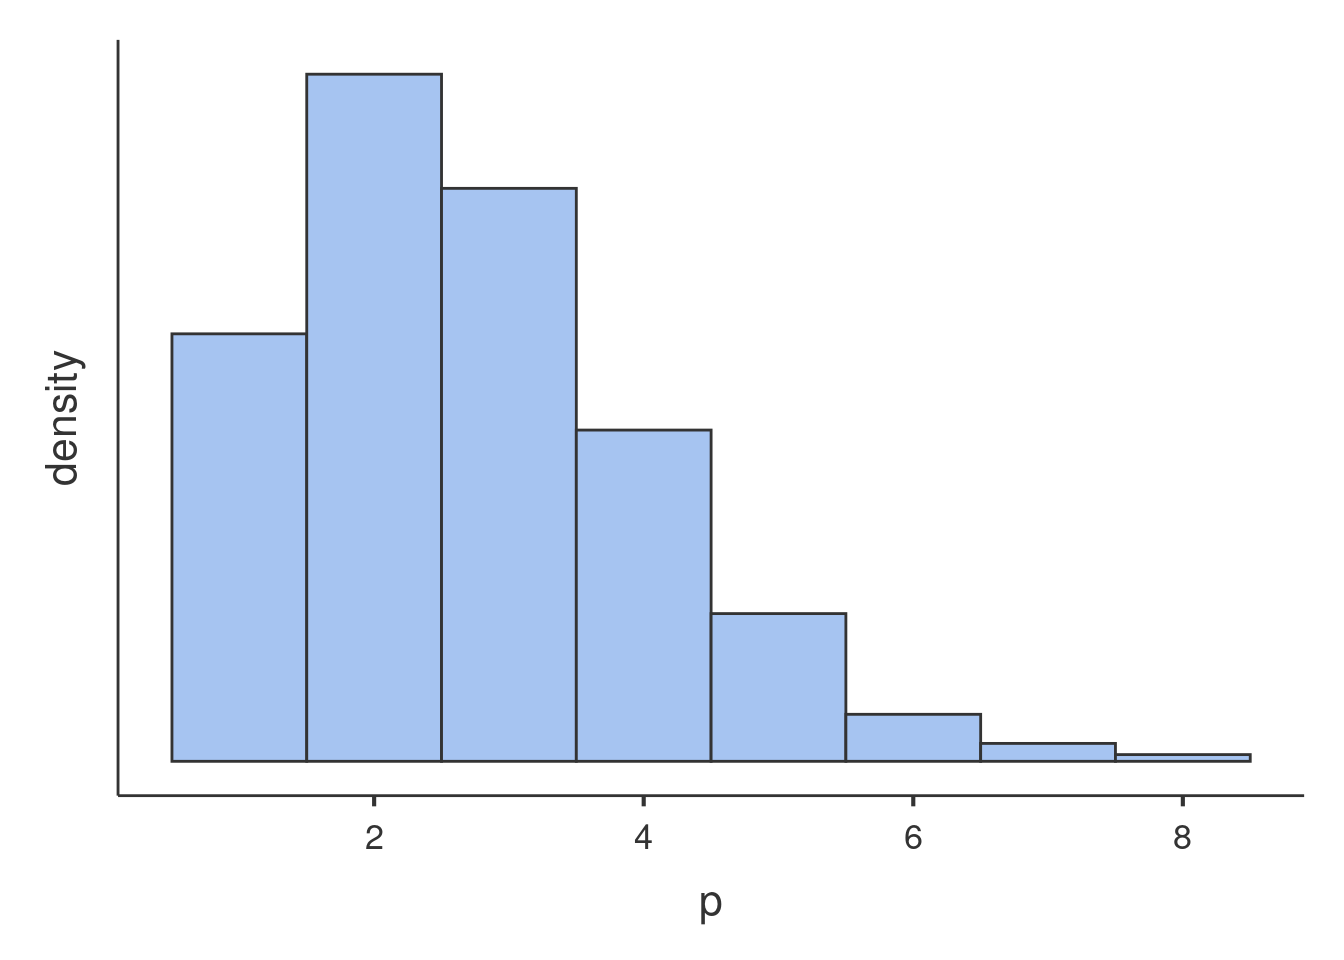
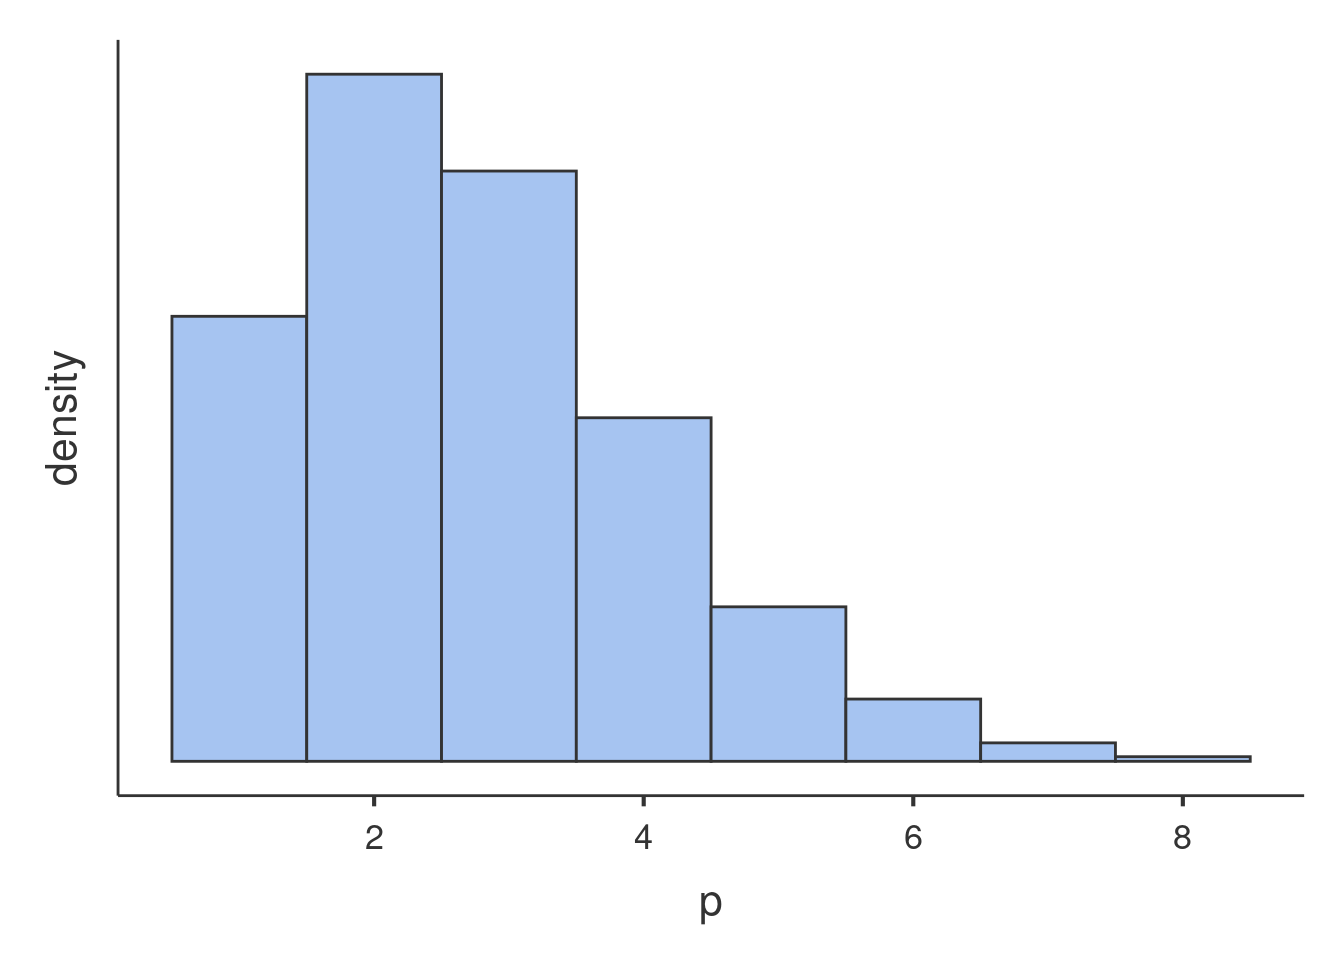
updates

diff --git a/docssource/glmmixed_example2.html b/docssource/glmmixed_example2.html
@@ -389,7 +389,7 @@ div.tocify {
 <p><img src="glmmixed_example2_files/figure-html/unnamed-chunk-2-1.png" width="672" /></p>
 <p>Glancing at the histogram makes it clear that the distribution is not normal, but it roughly resembles the Poisson distribution. Here is an example of Poisson distribution with equivalent mean.</p>
 <p><img src="glmmixed_example2_files/figure-html/unnamed-chunk-3-1.png" width="672" /></p>
-<p>We can see that the shape of our distribution is not qualitatively very different as compared with a theoretical Poisson distribution, so a Generalized Linear Model with Poisson distribition may work. However, we can check wheather our distribution is in line with the features of the Poisson dist by checking its mean and variance. The Poisson distribution has variance equal to the mean, in fact the simulated distribution in the histogram has <span class="math inline">\(\bar{x}=1.701\)</span> and <span class="math inline">\(s^2=1.787\)</span>. The <code>art</code> variable distribution has <span class="math inline">\(\bar{x}=1.693\)</span> and <span class="math inline">\(s^2=3.71\)</span>, with a ratio variance/mean of 2.191, which does not really qualify for Poisson dist. This looks like a case of <strong>overdispersion</strong>, <a href="http://bbolker.github.io/mixedmodels-misc/glmmFAQ.html#overdispersion">cf. here for details</a>. We will than consider a Negative Binomial model to account for possible overdispersion.</p>
+<p>We can see that the shape of our distribution is not qualitatively very different as compared with a theoretical Poisson distribution, so a Generalized Linear Model with Poisson distribition may work. However, we can check wheather our distribution is in line with the features of the Poisson dist by checking its mean and variance. The Poisson distribution has variance equal to the mean, in fact the simulated distribution in the histogram has <span class="math inline">\(\bar{x}=1.722\)</span> and <span class="math inline">\(s^2=1.833\)</span>. The <code>art</code> variable distribution has <span class="math inline">\(\bar{x}=1.693\)</span> and <span class="math inline">\(s^2=3.71\)</span>, with a ratio variance/mean of 2.191, which does not really qualify for Poisson dist. This looks like a case of <strong>overdispersion</strong>, <a href="http://bbolker.github.io/mixedmodels-misc/glmmFAQ.html#overdispersion">cf. here for details</a>. We will than consider a Negative Binomial model to account for possible overdispersion.</p>
 <p>An example of Negative Binomial distribution with equivalent mean and variance is here.</p>
 <p><img src="glmmixed_example2_files/figure-html/unnamed-chunk-4-1.png" width="672" /></p>
 <p>The second issue one needs to deal with is the structure of the data. We have seen that the students are not a random sample of students drawn independently one each other, but they are grouped by the program they are enrolled in. There are 83 programs, in each program there are on average 11 students. Because students in the same program may be more similar one each other than across programs, <code>programs</code> may cluster the scores of the dependent variable and create dependency in the data. To take dependency into the account, we will use a random intercepts model estimated with a Generalized Mixed Model.</p>

diff --git a/docssource/gmixed_specs.html b/docssource/gmixed_specs.html
@@ -378,7 +378,7 @@ div.tocify {
 </div>
 <div id="deviance" class="section level2">
 <h2>Deviance</h2>
-<p>The implementation follows exactly the indication of R package <code>lme4</code> <span class="citation">(Douglas Bates <a href="#ref-lme4cran">2020</a>)</span>. In generalized mixed model, deviance can be defined in different ways. One dichotomy is the reference to a saturated model. The <em>absolute deviance</em> of the model is simply the model deviance, the <em>relative deviance</em> is the deviance resulting from subtracting the deviance of a saturated model from the model deviance. A crossing factor is whether the deviance is conditional to the random effects (all effects affect the deviance) or it is not conditional to them (only the fixed effects affect the deviance). GAMLj computes two cells of the potential 2x2 table of possible deviance definitions:</p>
+<p>The implementation follows exactly the indication of R package <code>lme4</code> <span class="citation">(Douglas Bates <a href="#ref-lme4cran">2020</a>)</span>. In generalized mixed models, deviance can be defined in different ways. One dichotomy is the reference to a saturated model. The <em>absolute deviance</em> of the model is simply the model deviance, the <em>relative deviance</em> is the deviance resulting from subtracting the deviance of a saturated model from the model deviance. A crossing factor is whether the deviance is conditional to the random effects (all effects affect the deviance) or it is not conditional to them (only the fixed effects affect the deviance). GAMLj computes two cells of the potential 2x2 table of possible deviance definitions:</p>
 <ul>
 <li><code>-2*LogLikel.</code>, <code>Unconditioal absolute deviance</code>: Computed by <code>-2*logLik(model)</code></li>
 <li><code>Deviance</code>, <code>Conditional relative deviance</code> : Computed by <code>stats::deviance(model)</code></li>
